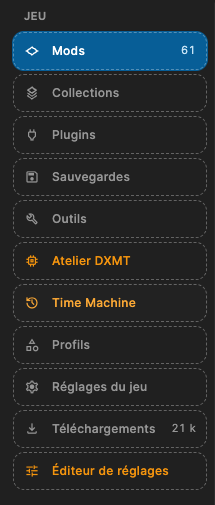
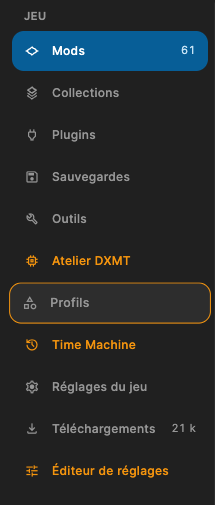
Barre latérale : déplacement des entrées fait maison à la souris (macOS annulait le glisser-déposer natif d'Electron au relâchement, rien ne bougeait) ; l'entrée saisie se soulève avec un contour orange et les autres s'écartent en direct ; le clic du relâchement n'ouvre pas la page ; README et captu

diff --git a/src/renderer/src/views/layout/menu/Menu.tsx b/src/renderer/src/views/layout/menu/Menu.tsx
@@ -4,7 +4,7 @@ import { useDispatch, useSelector } from "react-redux";
 
 import { setOpenMainPage } from "@/actions";
 import { usePagesContext, useWindowContext } from "@/contexts";
-import { moveBefore, setMenuOrder, sortByOrder } from "@/extensions/mortex_dashlet/menuOrder";
+import { setMenuOrder, sortByOrder } from "@/extensions/mortex_dashlet/menuOrder";
 import type { IMainPage } from "@/types/IMainPage";
 import type { IState } from "@/types/IState";
 import { TooltipDelayGroup } from "@/ui/components/tooltip/TooltipDelayGroup";
@@ -73,7 +73,8 @@ const MenuContent: FC<React.PropsWithChildren<unknown>> = () => {
     (state: IState) => (state.settings as any).mortex?.menuOrder ?? NO_ORDER,
   );
   const [dragged, setDragged] = useState<{ section: string; id: string } | undefined>(undefined);
-  const [dropTarget, setDropTarget] = useState<string | undefined>(undefined);
+  /** ordre du groupe pendant le déplacement : les autres entrées s'écartent en direct */
+  const [preview, setPreview] = useState<string[] | undefined>(undefined);
 
   const onScroll = (event: Event) => setCanScrollUp((event.target as HTMLDivElement).scrollTop > 0);
 
@@ -87,31 +88,65 @@ const MenuContent: FC<React.PropsWithChildren<unknown>> = () => {
     return () => element.removeEventListener("scroll", onScroll);
   }, [scrollRef]);
 
-  /** propriétés de glisser-déposer d'une entrée : on la saisit et on la dépose dans son groupe */
-  const reorderProps = (section: string, ids: string[], id: string) => ({
-    draggable: true,
-    reorderable: dragged !== undefined,
-    dropHint: dragged?.section === section && dropTarget === id && dragged.id !== id,
-    onDragStart: (event: React.DragEvent) => {
-      event.dataTransfer.effectAllowed = "move";
-      setDragged({ section, id });
-    },
-    onDragOver: (event: React.DragEvent) => {
-      if (dragged?.section !== section) return;
-      event.preventDefault();
-      setDropTarget(id);
-    },
-    onDrop: (event: React.DragEvent) => {
-      event.preventDefault();
-      if (dragged?.section === section && dragged.id !== id) {
-        dispatch(setMenuOrder(section, moveBefore(ids, dragged.id, id)));
+  // Déplacement fait maison, à la souris : le glisser-déposer natif d'Electron est annulé par
+  // macOS au relâchement (dragend sans drop), l'entrée ne bougeait donc jamais. L'entrée saisie
+  // prend la place de celle qu'elle survole, et les autres s'écartent aussitôt.
+  const moving = useRef<
+    | { section: string; id: string; ids: string[]; x: number; y: number; order: string[] }
+    | undefined
+  >(undefined);
+
+  useEffect(() => {
+    const onMove = (event: PointerEvent) => {
+      const move = moving.current;
+      if (move === undefined) return;
+      if (dragged === undefined) {
+        if (Math.hypot(event.clientX - move.x, event.clientY - move.y) < 5) return;
+        setDragged({ section: move.section, id: move.id });
+        document.body.classList.add("mortex-menu-moving");
       }
+      const over = document
+        .elementFromPoint(event.clientX, event.clientY)
+        ?.closest<HTMLElement>("[data-reorder-id]");
+      const overId =
+        over?.dataset.reorderSection === move.section ? over.dataset.reorderId : undefined;
+      if (overId === undefined || overId === move.id) return;
+      const order = move.order.filter((id) => id !== move.id);
+      order.splice(move.order.indexOf(overId), 0, move.id);
+      move.order = order;
+      setPreview(order);
+    };
+    const onUp = () => {
+      const move = moving.current;
+      moving.current = undefined;
+      if (move === undefined || dragged === undefined) return;
+      if (move.order.join() !== move.ids.join()) {
+        dispatch(setMenuOrder(move.section, move.order));
+      }
+      // le clic qui suit le relâchement n'ouvre pas la page
+      const swallow = (event: MouseEvent) => event.stopPropagation();
+      window.addEventListener("click", swallow, { capture: true, once: true });
+      setTimeout(() => window.removeEventListener("click", swallow, true), 0);
+      document.body.classList.remove("mortex-menu-moving");
       setDragged(undefined);
-      setDropTarget(undefined);
-    },
-    onDragEnd: () => {
-      setDragged(undefined);
-      setDropTarget(undefined);
+      setPreview(undefined);
+    };
+    window.addEventListener("pointermove", onMove);
+    window.addEventListener("pointerup", onUp);
+    return () => {
+      window.removeEventListener("pointermove", onMove);
+      window.removeEventListener("pointerup", onUp);
+    };
+  }, [dragged, dispatch]);
+
+  /** propriétés de déplacement d'une entrée : on la saisit et on la dépose dans son groupe */
+  const reorderProps = (section: string, ids: string[], id: string) => ({
+    "data-reorder-id": id,
+    "data-reorder-section": section,
+    lifted: dragged?.section === section && dragged.id === id,
+    onPointerDown: (event: React.PointerEvent) => {
+      if (event.button !== 0) return;
+      moving.current = { section, id, ids, x: event.clientX, y: event.clientY, order: ids };
     },
   });
 
@@ -166,7 +201,13 @@ const MenuContent: FC<React.PropsWithChildren<unknown>> = () => {
         ),
       });
     }
-    const sorted = sortByOrder(entries, (entry) => entry.id, menuOrder[section.title]);
+    const sorted = sortByOrder(
+      entries,
+      (entry) => entry.id,
+      dragged?.section === section.title && preview !== undefined
+        ? preview
+        : menuOrder[section.title],
+    );
     const ids = sorted.map((entry) => entry.id);
     return sorted.map((entry) => entry.render(reorderProps(section.title, ids, entry.id)));
   };

diff --git a/src/renderer/src/views/layout/menu/components/MenuButton.tsx b/src/renderer/src/views/layout/menu/components/MenuButton.tsx
@@ -16,10 +16,8 @@ interface MenuButtonProps extends ButtonHTMLAttributes<HTMLButtonElement> {
   count?: number;
   /** mORTEX : en couleur pour ressortir, orange pour une page exclusive au Mac, bleu Socle pour Nexus */
   accent?: "mac" | "nexus";
-  /** mORTEX : Option enfoncée, l'entrée se déplace */
-  reorderable?: boolean;
-  /** mORTEX : une entrée glissée sera déposée ici */
-  dropHint?: boolean;
+  /** mORTEX : l'entrée saisie pendant qu'on la déplace */
+  lifted?: boolean;
 }
 
 export const MenuButton: FC<React.PropsWithChildren<MenuButtonProps>> = ({
@@ -29,8 +27,7 @@ export const MenuButton: FC<React.PropsWithChildren<MenuButtonProps>> = ({
   Badge,
   count,
   accent,
-  reorderable,
-  dropHint,
+  lifted,
   ...props
 }) => {
   const { menuIsCollapsed } = useWindowContext();
@@ -48,10 +45,9 @@ export const MenuButton: FC<React.PropsWithChildren<MenuButtonProps>> = ({
               : accent === "nexus"
                 ? "mortex-menu-accent-nexus"
                 : "text-neutral-subdued",
-          reorderable ? "mortex-menu-reorderable" : "",
-          dropHint ? "mortex-menu-drop" : "",
+          lifted ? "mortex-menu-lifted" : "",
         ])}
-        draggable={reorderable}
+        draggable={false}
         {...props}
       >
         <Icon {...getIconProps(icon)} className="shrink-0" size="sm" />

diff --git a/src/stylesheets/ui/themes/mortex.css b/src/stylesheets/ui/themes/mortex.css
@@ -749,15 +749,15 @@ body[data-platform="darwin"]:has(.mortex-apply-wrap) [data-testid="window-titleb
     color: #7dd3fc !important;
 }
 
-/* Entrée de la barre latérale en cours de déplacement (glisser-déposer) */
-.mortex-menu-reorderable {
-    cursor: grab;
-    outline: 1px dashed var(--color-stroke-moderate);
-    outline-offset: -2px;
-}
-
-.mortex-menu-drop {
-    box-shadow: inset 0 2px 0 #f59e0b;
+/* Entrée de la barre latérale saisie : soulevée, les autres s'écartent pour lui faire place */
+.mortex-menu-lifted {
+    position: relative;
+    z-index: 2;
+    background-color: var(--color-surface-high) !important;
+    outline: 1px solid #f59e0b;
+    outline-offset: -1px;
+    box-shadow: 0 6px 16px rgb(0 0 0 / 0.45);
+    transform: scale(1.03);
 }
 
 /* Cloche des notifications dans la barre de titre : 32 px, sans bordure */
@@ -1798,4 +1798,11 @@ body[data-platform="darwin"] #main-toolbar .toolbar-version {
     border-radius: 6px;
     line-height: 24px;
     vertical-align: middle;
+}
+
+/* Entrée de la barre latérale en cours de déplacement : la main fermée partout */
+body.mortex-menu-moving,
+body.mortex-menu-moving * {
+    cursor: grabbing !important;
+    user-select: none;
 }

diff --git a/README.mORTEX.md b/README.mORTEX.md
@@ -13,7 +13,7 @@ mORTEX est un portage macOS (Apple Silicon) non officiel de [Vortex](https://git
 
 ## Barre latérale à votre ordre
 
-Saisissez une entrée de la barre latérale et déposez-la plus haut ou plus bas dans son groupe (Jeu, Outils, Application) : un trait orange montre où elle ira. L'ordre est retenu d'un lancement à l'autre.
+Saisissez une entrée de la barre latérale et faites-la monter ou descendre dans son groupe (Jeu, Outils, Application) : elle s'entoure d'orange et les autres entrées s'écartent en direct pour lui faire place. L'ordre est retenu d'un lancement à l'autre.
 
 <img src="docs/images/mortex-barre-laterale-deplacer.png" alt="Barre latérale pendant le déplacement d'une entrée" width="215">
 
@@ -49,7 +49,7 @@ mORTEX is an unofficial macOS (Apple Silicon) port of [Vortex](https://github.co
 
 ### Sidebar in your order
 
-Grab a sidebar entry and drop it higher or lower within its group (Game, Tools, Application); an orange line shows where it will land. The order is kept between launches.
+Grab a sidebar entry and move it up or down within its group (Game, Tools, Application); it gets an orange outline and the other entries make room for it as you go. The order is kept between launches.
 
 <img src="docs/images/mortex-barre-laterale-deplacer.png" alt="Sidebar while an entry is being moved" width="215">
 
